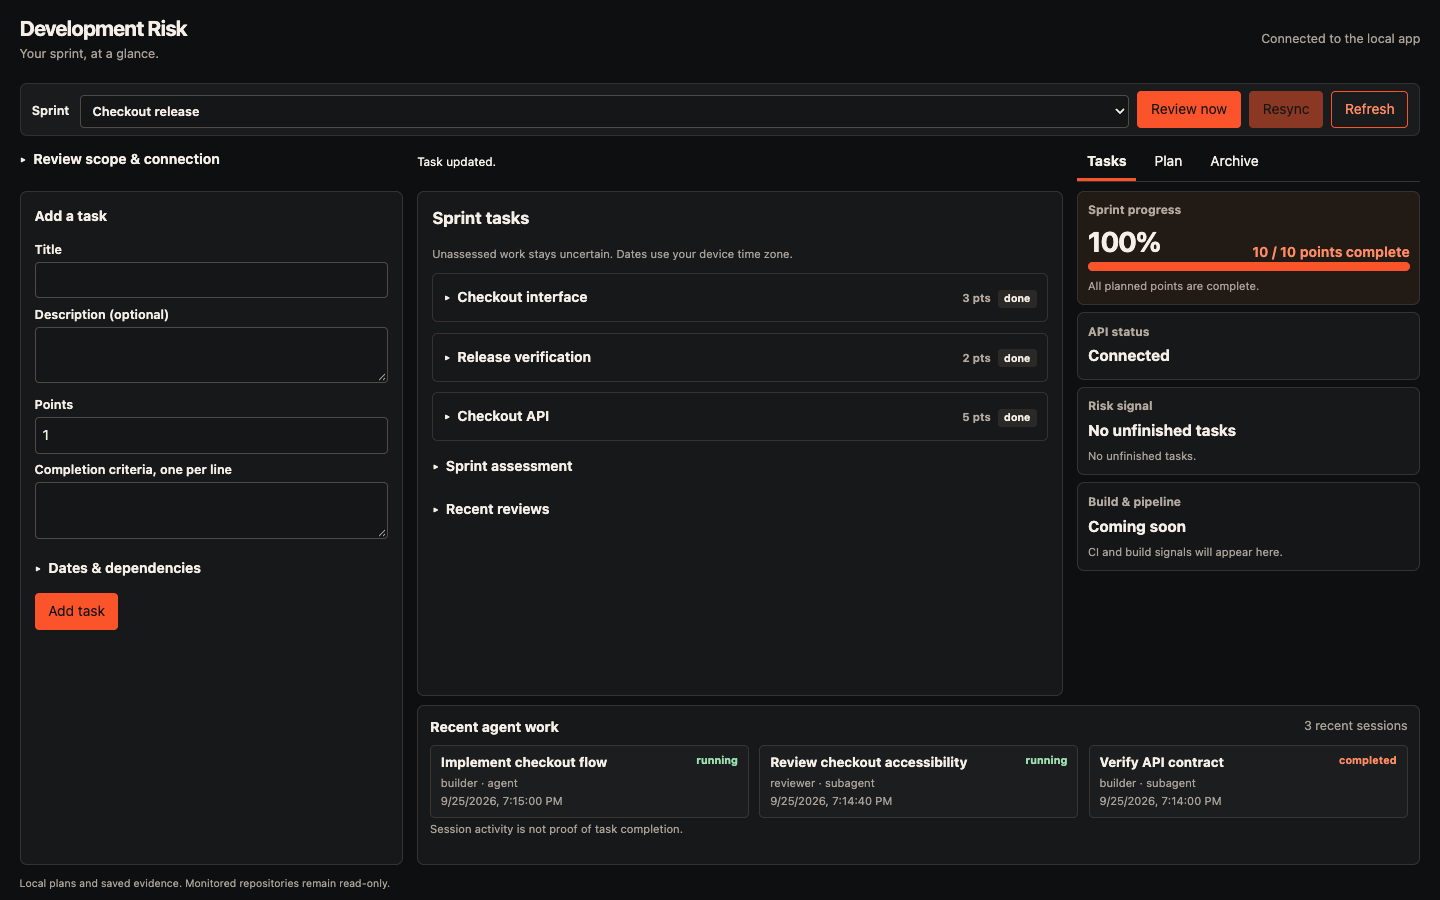
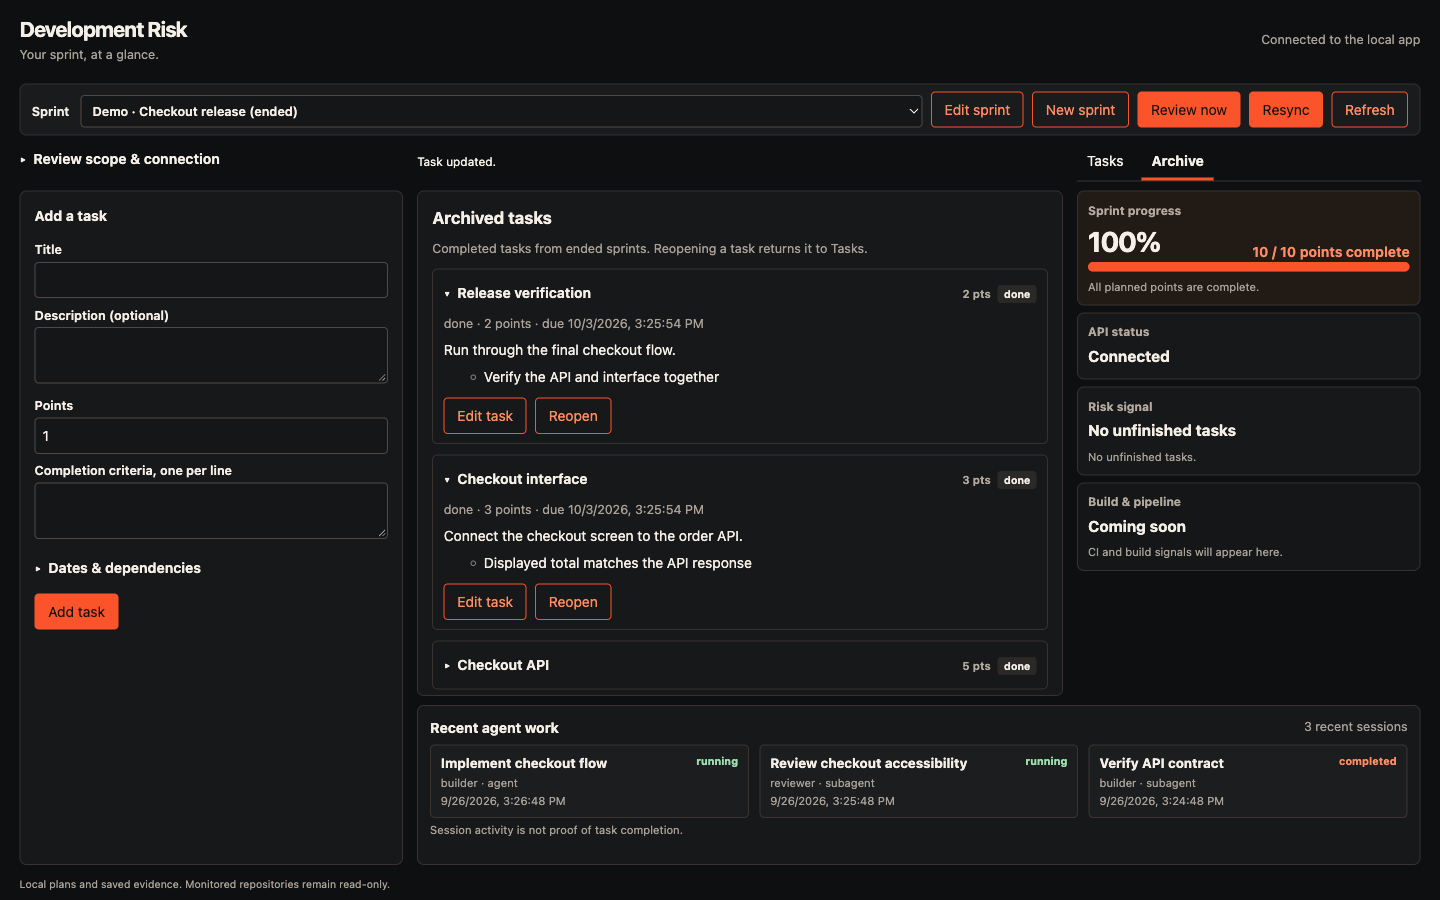
docs: show streamlined sprint and agent details

diff --git a/docs/local-use.md b/docs/local-use.md
@@ -32,8 +32,8 @@ Enabling it permits queued and scheduled reviews to call the configured provider
 
 ## Use the dashboard
 
-1. Choose **New sprint**, then add tasks with points, completion criteria, and optional prerequisites. Task dates default to the sprint window.
-2. Approve a folder to discover repositories. **Capture metadata** saves local observations without authorizing an AI review.
+1. Choose **New sprint** (or **Edit sprint** beside the selector), then add tasks with points, completion criteria, and optional prerequisites. Task dates default to the sprint window.
+2. Open **Review scope & connection → Manage repositories** and approve a folder to discover repositories. **Capture metadata** saves local observations without authorizing an AI review.
 3. Choose repositories explicitly before a review. Checkboxes start unchecked; an empty selection means plan-only. **Review now** uses saved evidence, while **Resync** captures the selected repositories before queuing a review.
 4. Open a task's finding to inspect citations, uncertainty, and the next check. Correct or dismiss findings, answer saved questions to request a follow-up, and mark tasks done yourself.
 5. Use **Archive** for completed work from ended sprints. Unfinished work carries forward; reopening a task preserves its history.

diff --git a/docs/verification.md b/docs/verification.md
@@ -20,9 +20,18 @@ responses; this pass made no model calls. The browser console had no application
 `pnpm check` passed **53 test files / 819 tests**; `pnpm build` passed.
 The fixtures, browser profile, processes, and temporary state were removed afterward.
 
+A September 26 follow-up removed the Plan tab in favor of **New sprint** / **Edit sprint**
+and moved repository setup under Review scope. Chrome checks covered these controls, discovery/resync,
+50% → 80% → 100% completion, archive rollover, and agent details with Enter/Escape keyboard access.
+The updated workspace fit 1280×720 and 1366×768 without page scrolling; the details dialog also fit
+390×844 without horizontal overflow. `pnpm check` passed **53 files / 823 tests** and the build passed.
+The isolated test tab, server, and state were removed; the requested demo preview remains open.
+
 ![Dashboard at 1366×768 with synthetic tasks and user agent sessions](images/dashboard-v2.png)
 
-![Explicit task completion updates the dashboard to 100%](images/dashboard-v2-complete.png)
+![Completed points remain at 100% after tasks move into Archive](images/dashboard-v2-complete.png)
+
+![Clickable session details with synthetic OpenClaw metadata](images/dashboard-agent-detail.png)
 
 ## HTTP latency
 

diff --git a/docs/design.md b/docs/design.md
@@ -170,6 +170,8 @@ An answer is stored as user evidence and atomically queues a follow-up with an e
 The desktop workspace places task entry on the left, sprint tasks in the center, risk/progress
 on the right, and user agent activity below. The page fits common desktop viewports; expanded
 details and long lists scroll within their panels. Small screens use a stacked layout.
+Sprint creation and editing open beside the sprint selector; repository setup lives under Review scope.
+Clicking an agent opens its available session metadata in a dialog, refreshed while open.
 Review cadence is developer policy and is not exposed as a dashboard setting.
 
 An opt-in `AgentActivityPort` reads bounded session metadata from OpenClaw through a separate,
